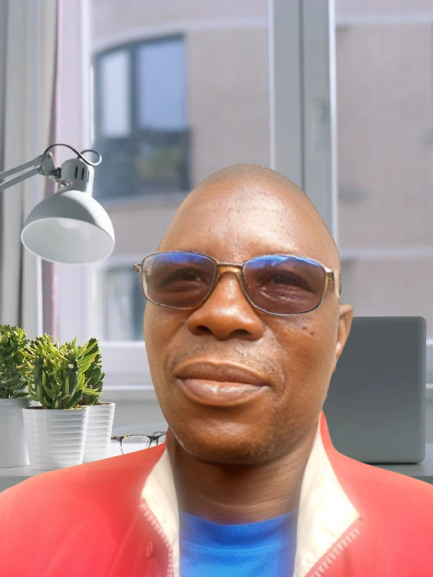
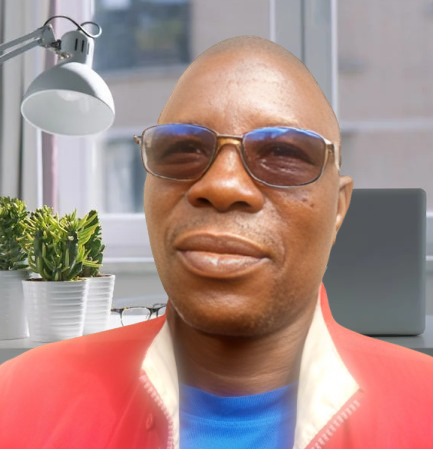
crop profile image

diff --git a/app/components/Sidebar.tsx b/app/components/Sidebar.tsx
@@ -1,7 +1,6 @@
 'use client'
 
 import { useState } from 'react'
-// import { BsPersonBadgeFill } from "react-icons/bs"
 import NavLink from "./NavLink"
 import { motion, AnimatePresence } from 'framer-motion'
 import { IoMdMenu, IoMdClose } from 'react-icons/io'
@@ -13,12 +12,12 @@ const Sidebar = () => {
 
   return (
     <>
-      {/* ✅ Desktop sidebar: always visible */}
+      {/* Desktop sidebar: always visible */}
       <aside className="hidden border-r-[1.8px] border-gray-700 md:flex fixed top-0 left-0 w-[18%] z-30 h-screen bg-[#191d2b] text-white py-8 flex-col justify-between items-center">
         <SidebarContent />
       </aside>
 
-      {/* ✅ Mobile toggle button: only visible on mobile */}
+      {/* Mobile toggle button: only visible on mobile */}
       <button
         onClick={() => setIsOpen(prev => !prev)}
         className={`${isOpen ? 'hidden' : 'flex'}
@@ -29,7 +28,7 @@ const Sidebar = () => {
             <IoMdMenu size={30} />
       </button>
 
-      {/* ✅ Mobile sidebar overlay */}
+      {/*  Mobile sidebar overlay */}
       <AnimatePresence>
         {isOpen && (
           <motion.aside
@@ -72,9 +71,6 @@ function SidebarContent() {
         }}
       /> 
     </Link>
-      {/* <Link href={'/'} className="mt-10 flex flex-col items-center justify-center bg-white w-[178px] h-[178px] rounded-[50%]">
-        <img src='/raji-sarafadeen.png'  alt="Raji Sarafadeen, Web Dev" className='w-[170px] h-[170px] rounded-[50%]'/> 
-      </Link> */}
 
       <div className="w-full h-[0.8px] bg-gray-700  mt-5"></div>
       <div className="w-full flex flex-col text-center text-[#86a4c4] lg:px-1">
